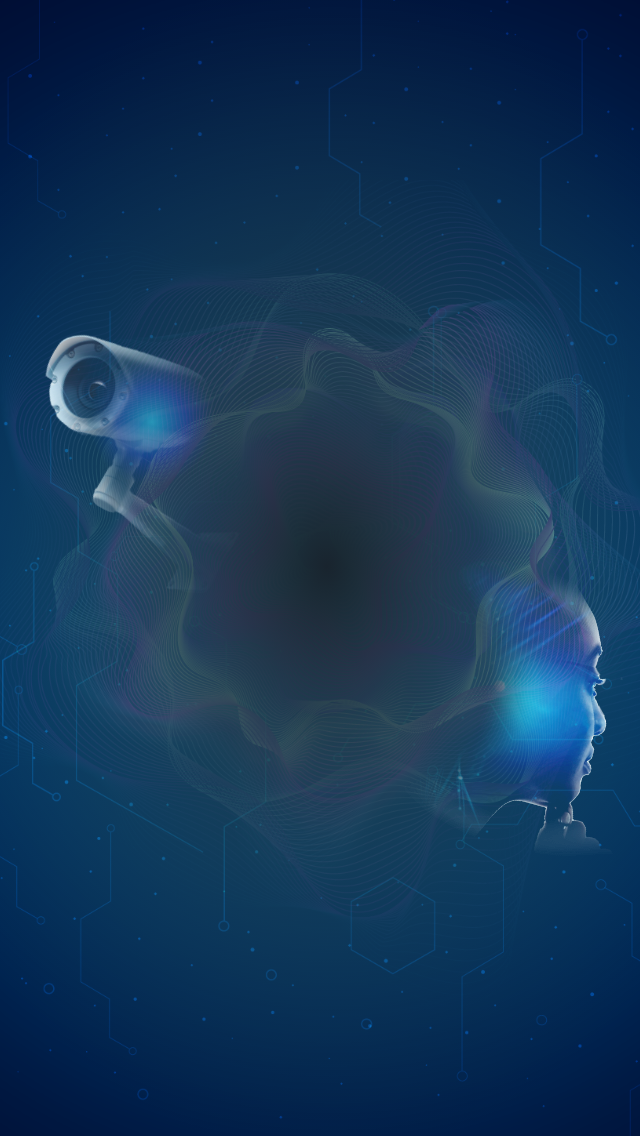
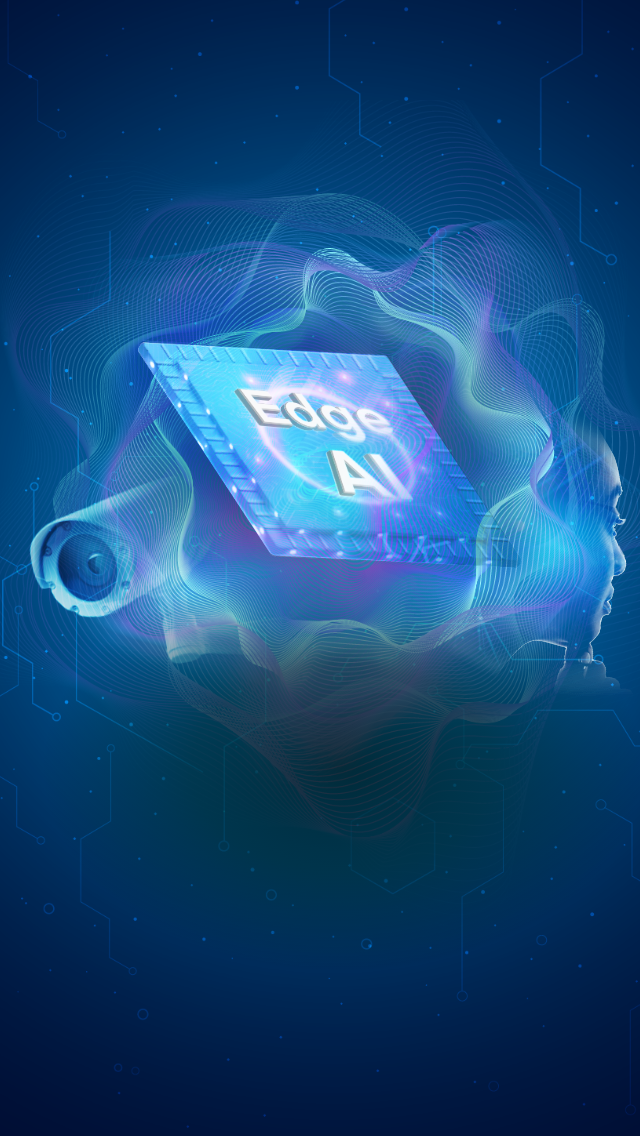
[수정] 엣지AI - 이벤트페이지 디자인변경, html, css 수정

diff --git a/maumEvent/resources/css/edgeAiEvent.css b/maumEvent/resources/css/edgeAiEvent.css
@@ -82,7 +82,7 @@ html, body {font-size:24px; line-height:1.4; letter-spacing:-0.4px;}
 .checkBox{display:inline-block; position:relative; min-height:20px; font-size:24px;}
 .checkBox input[type="checkbox"]{position:absolute; overflow:hidden; width:1px; height:1px; padding:0; margin:-1px; clip:rect(0,0,0,0); border:0;}
 .checkBox input[type="checkbox"] + label{display:inline-block; position:relative; margin:0 10px 0 0; padding-left:46px; font-size:28px; line-height:40px; word-break:keep-all; cursor:pointer; -webkit-user-select:none; -moz-user-select:none; -ms-user-select:none;}
-.checkBox input[type="checkbox"] + label:before{content:''; position:absolute; top:50%; left:0; width:32px; height:32px; border:1px solid #707070; background:#fff; box-sizing:border-box; text-align:center; line-height:32px; transform:translate(0, -50%);}
+.checkBox input[type="checkbox"] + label:before{content:''; position:absolute; top:50%; left:0; width:32px; height:32px; border:1px solid #707070; border-radius:4px; background:#fff; box-sizing:border-box; text-align:center; line-height:32px; transform:translate(0, -50%);}
 .checkBox input[type="checkbox"]:checked + label:before{content:'\f00c'; font-family:'Font Awesome 5 Free'; color:#fff; font-size:22px; font-weight:900; border:1px solid #1FB5CB; background:#1FB5CB;}
 
 /* radioBox */
@@ -163,40 +163,39 @@ html, body {font-size:24px; line-height:1.4; letter-spacing:-0.4px;}
 
 /* intro */
 #wrap.event .intro {position:absolute; top:0; left:0; height:100%; padding:0; background:url('../images/edgeAi/bg_stn_intro.png') 50% 0 no-repeat; background-size:cover; z-index:20;}
-#wrap.event .intro .contBox .msg_lead {margin:160px 0 0;}
-#wrap.event .intro .contBox .msg_lead p {margin:0 0 16px; color:#fff; font-size:1.8rem; line-height:1.5; text-shadow:0 3px 26px #1f2f3b; opacity:0.8;}
-#wrap.event .intro .contBox .msg_main {position:absolute; top:50%; left:50%; transform:translate(-50%, -50%);}
-#wrap.event .intro .contBox .msg_main strong {color:#fff; font-size:3.1rem; font-weight:900; line-height:1.5; text-shadow:0 3px 16px rgba(0, 0, 0, 0.16);}
-#wrap.event .intro .contBox .msg_main p {color:#fff; font-size:2rem; line-height:1.3; letter-spacing:-0.9px; text-shadow:0 3px 16px rgba(0, 0, 0, 0.16);}
-#wrap.event .intro .contBox .msg_main p br {display:none;}
+#wrap.event .intro .contBox .msg_lead {margin:150px 0 0;}
+#wrap.event .intro .contBox .msg_lead p {margin:0 0 16px; color:#fff; font-size:1.8rem; line-height:1.5; text-shadow:0 3px 26px #000000; opacity:0.8;}
 #wrap.event .intro .contBox .svc_start {position:absolute; bottom:45px; left:0; width:100%; min-width:1280px; box-sizing:border-box;}
-#wrap.event .intro .contBox .svc_start .msg_start {color:#fff; font-size:1.3rem; font-weight:700; line-height:1.1; text-shadow:0 3px 26px #25425d;}
-#wrap.event .intro .contBox .svc_start .btnBox {margin:44px 0 0;}
+#wrap.event .intro .contBox .svc_start .msg_key strong {color:#fff; font-size:3.1rem; font-weight:900; line-height:1.5; text-shadow:0 3px 16px rgba(0, 0, 0, 0.16);}
+#wrap.event .intro .contBox .svc_start .msg_key p {color:#fff; font-size:2rem; line-height:1.3; letter-spacing:-0.9px; text-shadow:0 3px 16px rgba(0, 0, 0, 0.16);}
+#wrap.event .intro .contBox .svc_start .msg_key p br {display:none;}
+#wrap.event .intro .contBox .svc_start .msg_start {margin:32px 0 44px; color:#fff; font-size:1.3rem; font-weight:700; line-height:1.1; text-shadow:0 3px 26px #25425d;}
 #wrap.event .intro .contBox .svc_start .btnBox a {height:72px; margin:0 6px; border:none; background:none; font-size:20px; line-height:70px;}
 #wrap.event .intro .contBox .svc_start .btnBox a:nth-child(1) {width:180px;}
 #wrap.event .intro .contBox .svc_start .btnBox a:nth-child(2) {width:280px; background:#fff; color:#1f2f3b;}
 
 /* main */
-#wrap.event .main {background:url('../images/edgeAi/bg_stn_eventBanner.png') 50% 50% no-repeat;}
+#wrap.event .main {padding:174px 0 173px; background:url('../images/edgeAi/bg_stn_eventBanner.png') 50% 50% no-repeat; background-size:cover;}
 #wrap.event .main .contBox .msg_lead {margin:60px 0; color:#27445f; font-size:1.2rem; line-height:1.4; word-break:keep-all;}
+#wrap.event .main .contBox .msg_lead:nth-child(2) {margin:120px 0 60px;}
 #wrap.event .main .contBox .msg_key {color:#27445f; font-size:1.2rem; line-height:1.4; word-break:keep-all;}
 
 /* use_cases */
 #wrap.event .use_cases {min-height:750px; background:#fff;}
 #wrap.event .use_cases .contBox {padding:0;}
-#wrap.event .use_cases .contBox .use_cases_box {position:relative; margin:60px 0 0; padding:0 0 70px;}
+#wrap.event .use_cases .contBox .use_cases_box {position:relative; margin:60px 0 0; padding:0 0 55px;}
 #wrap.event .use_cases .contBox .use_cases_box:before {content:''; display:block; position:absolute; top:0; left:0; width:300px; height:100%; background:linear-gradient(to right, white, transparent); z-index:10;}
 #wrap.event .use_cases .contBox .use_cases_box:after {content:''; display:block; position:absolute; top:0; right:0; width:300px; height:100%; background:linear-gradient(to left, white, transparent); z-index:10;}
 #wrap.event .use_cases .contBox .use_cases_box .cases_lst li .imgBox img {width:100%;}
-#wrap.event .use_cases .contBox .use_cases_box .cases_lst li dt {margin:28px 0 17px; color:#25425d; font-size:1.5rem; font-weight:700; line-height:1.4;}
-#wrap.event .use_cases .contBox .use_cases_box .cases_lst li dd .desc_tit {margin:0 0 2px; color:#25425d; font-size:1rem; font-weight:700; line-height:1.5;}
-#wrap.event .use_cases .contBox .use_cases_box .cases_lst li dd .desc_txt {color:#333333; font-size:1rem; line-height:1.3; word-break:keep-all;}
+#wrap.event .use_cases .contBox .use_cases_box .cases_lst li dt {position:relative; margin:36px 0 8px; padding:56px 0 0; color:#25425d; font-size:1.5rem; font-weight:700; line-height:1.4;}
+#wrap.event .use_cases .contBox .use_cases_box .cases_lst li dt:before {content:'인증 통과'; display:inline-block; position:absolute; top:0; left:50%; width:213px; height:48px; padding:0 20px 0 107px; border:1px solid #d6d6d6; border-radius:24px; box-sizing:border-box; background:url('../images/edgeAi/logo_kisa.png') 20px 50% no-repeat; transform:translate(-50%, 0); color:#757a8a; font-size:0.9rem; font-weight:500; line-height:48px;}
+#wrap.event .use_cases .contBox .use_cases_box .cases_lst li dd {color:#333333; font-size:1rem; line-height:1.3; word-break:keep-all;}
 /* use_cases - swiper */
 .swiper-container-horizontal>.swiper-pagination-bullets {bottom:0; left:50%; width:auto; height:5px; border-radius:3px; background:#e6e6e6; transform:translate(-50%, 0);}
 .swiper-pagination-bullet {position:relative; top:-21px; width:60px; height:5px; margin:0 !important; border-radius:3px; background:#e6e6e6; opacity:1;}
 .swiper-pagination-bullet-active {border-radius:3px; background:#27445f;}
-.swiper-button-prev {top:calc(50% - 120px); left:15%; width:192px; height:192px; background:url('../images/edgeAi/img_arw_left.svg') 50% 50% no-repeat; transform:translate(0, -50%);} 
-.swiper-button-next {top:calc(50% - 120px); right:15%; width:192px; height:192px; background:url('../images/edgeAi/img_arw_right.svg') 50% 50% no-repeat; transform:translate(0, -50%);}
+.swiper-button-prev {top:calc(50% - 120px); left:15%; width:192px; height:192px; background:url('../images/edgeAi/img_arw_left.svg') 50% 50% no-repeat; transform:translate(0, -50%); z-index:20;} 
+.swiper-button-next {top:calc(50% - 120px); right:15%; width:192px; height:192px; background:url('../images/edgeAi/img_arw_right.svg') 50% 50% no-repeat; transform:translate(0, -50%); z-index:20;}
 .swiper-button-prev:after {content:none;}
 .swiper-button-next:after {content:none;}
 
@@ -229,7 +228,7 @@ html, body {font-size:24px; line-height:1.4; letter-spacing:-0.4px;}
 #wrap.event .contact .contBox .contactform button {display:inline-block; width:225px; height:72px; border:1px solid #1FB5CB; border-radius:6px; box-sizing:border-box; background:#1FB5CB; color:#fff; font-size:20px; font-weight:700;}
 #wrap.event .contact .contBox .contactform button:disabled {border:1px solid #757a8a; background:#757a8a;}
 #wrap.event .contact .contBox .contactform dl dd .assentBox {width:656px; color:#fff; font-size:0.8rem; line-height:1.5;}
-#wrap.event .contact .contBox .contactform dl dd .assentBox p {margin:22px 0 0;}
+#wrap.event .contact .contBox .contactform dl dd .assentBox p {margin:22px 0 0; font-size:0.7rem;}
 #wrap.event .contact .contBox .contactform #inquireBtn {transition:all 0.2s ease-out;}
 #wrap.event .contact .contBox .slogan {margin:0 0 32px; color:#fff; font-size:1rem; line-height:1.4;}
 

diff --git a/maumEvent/html/edgeAiEvent.html b/maumEvent/html/edgeAiEvent.html
@@ -51,13 +51,13 @@
                 <div class="msg_lead">
                     <p>&ldquo;인공지능이 CCTV를 만난다면?&rdquo;</p>
                 </div>
-
-                <div class="msg_main">
-                    <strong>인공지능 엣지 탄생!</strong>
-                    <p>인공지능이 CCTV를<br> 똑똑하게 진화시켰습니다.</p>
-                </div>
                 
                 <div class="svc_start">
+                    <div class="msg_key">
+                        <strong>인공지능 엣지 탄생!</strong>
+                        <p>인공지능이 CCTV를<br> 똑똑하게 진화시켰습니다.</p>
+                    </div>
+
                     <p class="msg_start">엣지 AI를 체험해 보시겠습니까?</p>
 
                     <div class="btnBox">
@@ -86,50 +86,38 @@
                     <ul class="cases_lst swiper-wrapper">
                         <li class="swiper-slide">
                             <div class="imgBox">
-                                <img src="../resources/images/edgeAi/img_use_case01.png" alt="학교 및 주변 사용사례">
+                                <img src="../resources/images/edgeAi/img_use_case01.png" alt="배회 감지 및 통보 사용사례">
                             </div>
                             <dl class="descBox">
-                                <dt>학교 및 주변</dt>
-                                <dd>
-                                    <p class="desc_tit">즐겁고 안전한 아이들의 학교생활을 위한 Edge AI</p>
-                                    <p class="desc_txt">폭력의 사각지대… 학교 현장에서 발생할 수 있는 예상치 못한<br>폭력 등의 위험을 탐지하여 가장 신속하고 빠르게 대응합니다.</p>
-                                </dd>
+                                <dt>배회 감지 및 통보</dt>
+                                <dd>배회자를 감지하고 관계 기관에 통보하여 신속히 대응합니다.</dd>
                             </dl>
                         </li>
                         <li class="swiper-slide">
                             <div class="imgBox">
-                                <img src="../resources/images/edgeAi/img_use_case02.png" alt="고령노인 주거공간 사용사례">
+                                <img src="../resources/images/edgeAi/img_use_case02.png" alt="실신 감지 및 통보 사용사례">
                             </div>
                             <dl class="descBox">
                                 <dt>고령노인 주거공간</dt>
-                                <dd>
-                                    <p class="desc_tit">자녀를 대신해 고령 노인들의 안전을 책임지는 Edge AI</p>
-                                    <p class="desc_txt">홀로 거주하는 고령 노인의 주거공간에서 발생할 수 있는<br>예상치 못한 침입·실신 등의 위험 요소를 즉각 감지하여 가장<br>신속하고 빠르게 대응합니다.</p>
-                                </dd>
+                                <dd>노인 등의 실신을 감지하고 관계자에게 통보하여 신속히 대응합니다.</dd>
                             </dl>
                         </li>
                         <li class="swiper-slide">
                             <div class="imgBox">
-                                <img src="../resources/images/edgeAi/img_use_case03.png" alt="지하주차장 및 골목길 사용사례">
+                                <img src="../resources/images/edgeAi/img_use_case03.png" alt="침입 감지 및 통보 사용사례">
                             </div>
                             <dl class="descBox">
                                 <dt>지하주차장 및 골목길</dt>
-                                <dd>
-                                    <p class="desc_tit">지하주차장·골목길의 주민 안전을 책임지는 Edge AI</p>
-                                    <p class="desc_txt">촬영된 차량번호와 사람들의 행동 패턴을 분석하여 특정 장소를<br>계속 배회하거나 평소와는 다른 여러 사람이 움직이는 이상행동<br>패턴을 즉각 감지하여 관제센터에 신속하고 빠르게 알려줍니다.</p>
-                                </dd>
+                                <dd>수상한 침입을 감지하여 관계자에게 통보하여 신속히 대응합니다.</dd>
                             </dl>
                         </li>
                         <li class="swiper-slide">
                             <div class="imgBox">
-                                <img src="../resources/images/edgeAi/img_use_case04.png" alt="아이들 놀이터 사용사례">
+                                <img src="../resources/images/edgeAi/img_use_case04.png" alt="차량 감지 및 통보 사용사례">
                             </div>
                             <dl class="descBox">
                                 <dt>아이들 놀이터</dt>
-                                <dd>
-                                    <p class="desc_tit">부모·아이 모두 편히 놀 수 있는 환경을 돕는 Edge AI</p>
-                                    <p class="desc_txt">아이들의 놀이 환경에서 발생할 수 있는 외부인의 폭력·배회<br>등의 위험요소를 감지하여 가장 신속하고 빠르게 대응합니다.</p>
-                                </dd>
+                                <dd>문제 차량의 번호판, 차종을 감지하여 해당 기관에 통보하고 신속히 대응합니다.</dd>
                             </dl>
                         </li>
                     </ul>
@@ -147,8 +135,8 @@
                 <ul class="strt_lst">
                     <li>
                         <div class="lst_cont">
-                            <span>위험 감지 시</span>
-                            <strong>현장에서 신속하게 판단</strong>
+                            <span>이상행동 감지 시</span>
+                            <strong>사용자에게 즉시 통보</strong>
                             <img src="../resources/images/edgeAi/ico_strt01.svg" alt="장점아이콘01">
                         </div>                       
                     </li>
@@ -161,8 +149,8 @@
                     </li>
                     <li>
                         <div class="lst_cont">
-                            <span>매일 정리되어 보고되는</span>
-                            <strong>데일리 리포트</strong>
+                            <span>필요에 따라 조합하는</span>
+                            <strong>맞춤형 서비스</strong>
                             <img src="../resources/images/edgeAi/ico_strt03.svg" alt="장점아이콘03">
                         </div>
                     </li>                       
@@ -172,7 +160,7 @@
 
         <div class="stn contact">
             <div class="contBox">  
-                <strong class="main_tit">지금 바로 놀라운 엣지 AI를<br>무료로 체험해 보세요!</strong>
+                <strong class="main_tit">지금 바로 놀라운 엣지 AI를<br>무료로 상담해 보세요!</strong>
                 <div class="contactform">
                     <dl>
                         <dt>이름<span>(필수)</span></dt>
@@ -310,10 +298,10 @@ jQuery.event.add(window,"load",function(){
                 prevEl: '.swiper-button-prev',
                 nextEl: '.swiper-button-next',
             },
-            autoplay: {
-                delay: 6000,
-                disableOnInteraction: false,
-            },
+            // autoplay: {
+            //     delay: 6000,
+            //     disableOnInteraction: false,
+            // },
             breakpoints: {
                 320: {
                     slidesPerView: 1.3,
